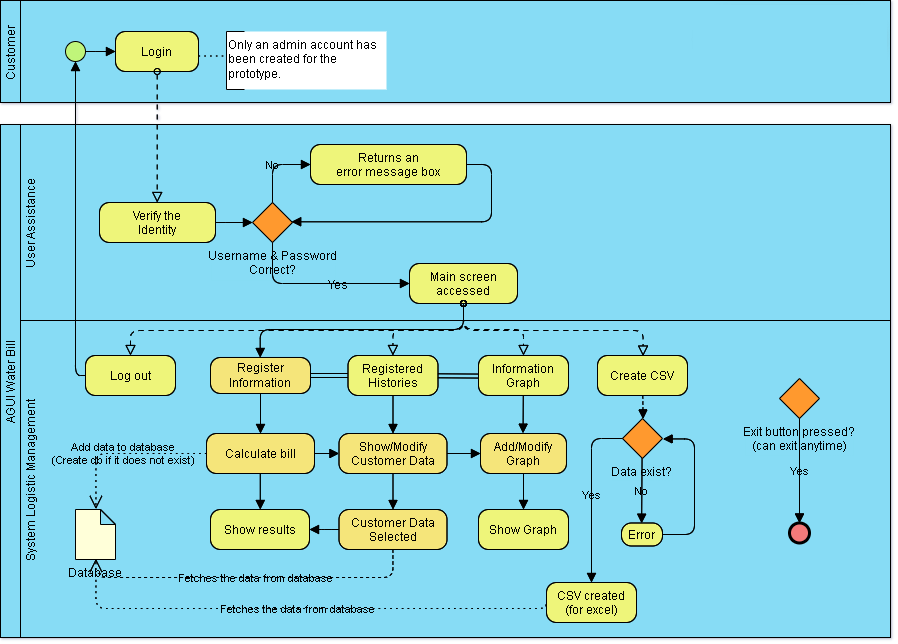
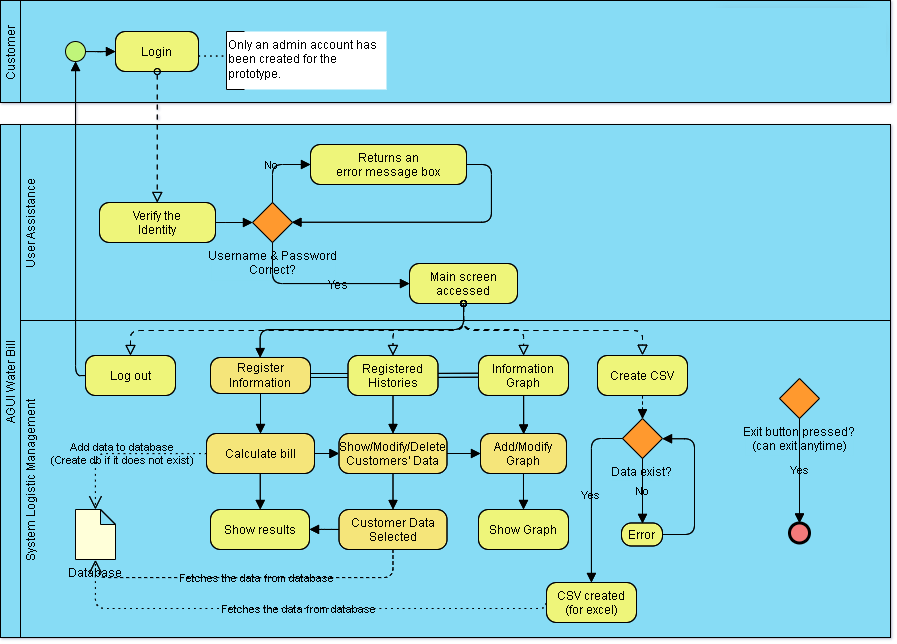
reworked final -build

diff --git a/AGUI/_internal/dist/register.py b/AGUI/_internal/dist/register.py
@@ -43,6 +43,7 @@ class Register(result.Result):
 
         self.entry_name = CTkEntry(self.name_frame, width=150)
         self.entry_name.grid(row=0, column=1, padx=10, pady=5)
+        self.entry_name.insert(0, "Lastname, Firstname")
 
         self.address_frame = CTkFrame(self.service_frame)
         self.address_frame.grid(row=2, column=0, padx=5, pady=5)
@@ -199,8 +200,8 @@ class Register(result.Result):
         
     def calculate_bill(self):
         try:
-            customer_name = self.entry_name.get()[:11] if ' ' not in self.entry_name.get() else self.entry_name.get().split(' ')[0]
-            address = self.entry_address.get()[:30] if len(self.entry_address) > 30 else self.entry_address.get()
+            customer_name = self.entry_name.get()[:30] if len(self.entry_name.get()) > 30 else self.entry_name.get()
+            address = self.entry_address.get()[:30] if len(self.entry_address.get()) > 30 else self.entry_address.get()
             account = self.entry_account.get()
             meter = self.entry_meter.get()
             reference = self.entry_reference.get()

diff --git a/AGUI/_internal/dist/history.py b/AGUI/_internal/dist/history.py
@@ -47,8 +47,14 @@ class History(result.Result):
         data = self.db.fetch_data()
 
         for i, row in enumerate(data):
-            bill_button = CTkButton(self.button_frame, text=f"Customer: {row[1]}", command=lambda row=row: self.show_details(row))
-            bill_button.grid(row=0, column=i, padx=10, pady=5)
+            button_pair_frame = Frame(self.button_frame, bg="gray12")
+            button_pair_frame.grid(row=0, column=i, padx=10, pady=5)
+
+            bill_button = CTkButton(button_pair_frame, text=f"Customer: {row[1].lower().title().split()[-1]}", command=lambda row=row: self.show_details(row))
+            bill_button.pack(side='left')
+
+            delete_button = CTkButton(button_pair_frame, text="X", command=lambda id=row[0]: self.delete_and_clear(id), width=2)
+            delete_button.pack(side='left')
         
     def delete_and_clear(self, id):
         self.db.delete_and_clear(id)

diff --git a/AGUI/_internal/dist/result.py b/AGUI/_internal/dist/result.py
@@ -13,7 +13,6 @@ class Result:
         self.title_service = title_service
         self.title_billing = title_billing
 
-        #ToDo: customize each label of the informations (Done)
         """
         service_info_converted = self.service_info_var.encode("utf-8")
         billing_summary_converted = self.billing_summary_var.encode("utf-8")
@@ -37,7 +36,7 @@ class Result:
         #self.label_name = CTkLabel(self.title_frame, text="Information", font=("Oswald", 25))
         #self.label_name.grid(row=0, column=0, padx=0, pady=10)
 
-        self.service_frame = tk.Frame(self.root, width=500, height=300, bg="gray11")
+        self.service_frame = tk.Frame(self.root, width=500, height=300, bg="gray12")
         self.billing_frame = tk.Frame(self.root, width=500, height=300, bg="gray12")
 
         self.service_frame.place(x=255, y=90, width=400, height=300)

diff --git a/AGUI/_internal/dist/sidebar.py b/AGUI/_internal/dist/sidebar.py
@@ -71,7 +71,7 @@ class Sidebar(ctk.CTkFrame):
         button3 = ctk.CTkButton(button_frame, text="Graphical\nPresentation", command=self.graphical_presentation, bg_color="gray12", fg_color="gray10", corner_radius=22, hover_color="black")
         button3.pack(pady=(15,5), padx=10)
     
-        button4 = ctk.CTkButton(button_frame, text="Export Result \nto CSV", command=self.export_to_csv, bg_color="gray12", fg_color="gray10", corner_radius=22, hover_color="black")
+        button4 = ctk.CTkButton(button_frame, text="Export Database \nto CSV", command=self.export_to_csv, bg_color="gray12", fg_color="gray10", corner_radius=22, hover_color="black")
         button4.pack(pady=(15,5), padx=10)
 
         button5 = ctk.CTkButton(button_frame, text="Log out", command=self.logout_button, bg_color="gray12", fg_color="gray10", corner_radius=22, hover_color="black")

diff --git a/AGUI/_internal/dist/graph.py b/AGUI/_internal/dist/graph.py
@@ -51,7 +51,7 @@ class Graph:
         customer_names = [row[0] for row in cursor.fetchall()]
 
         fig, ax = plt.subplots()
-        ax.set_ylim([0, 250])
+        ax.set_ylim([0, 500])
         
         ax.set_xlabel('Customer Names')
         ax.set_ylabel('Total Bill Amount')
